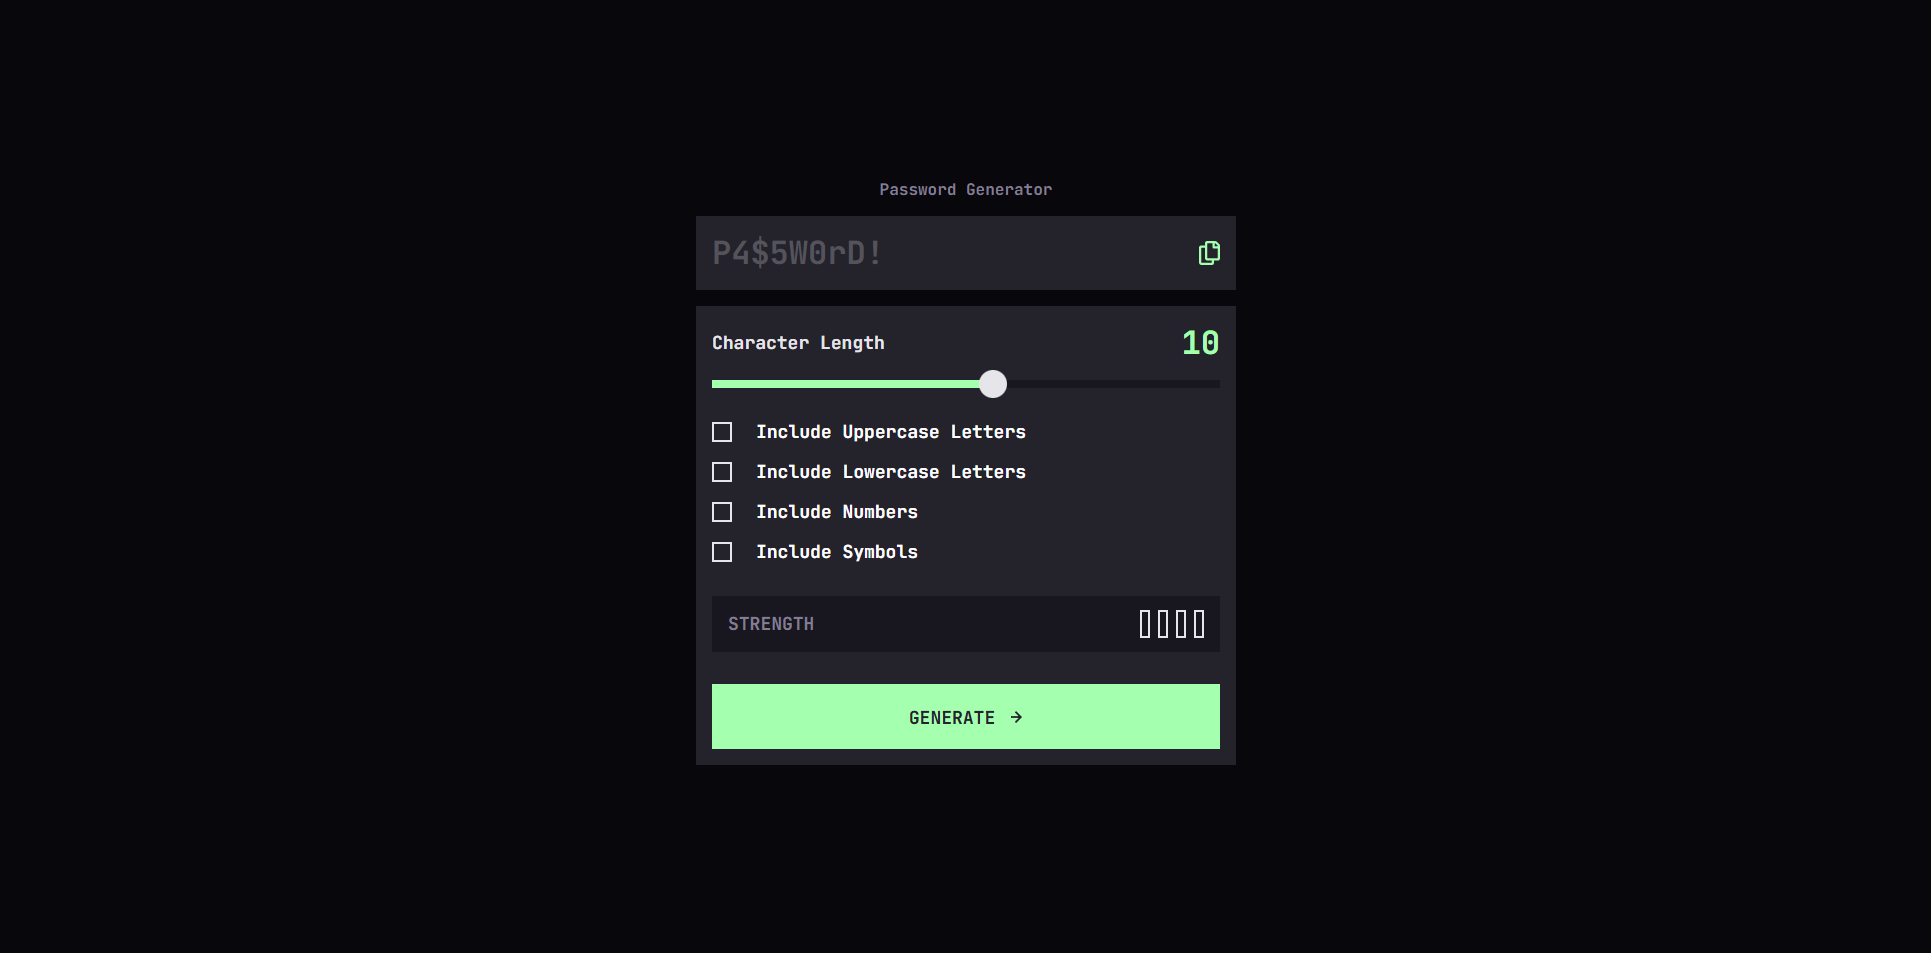
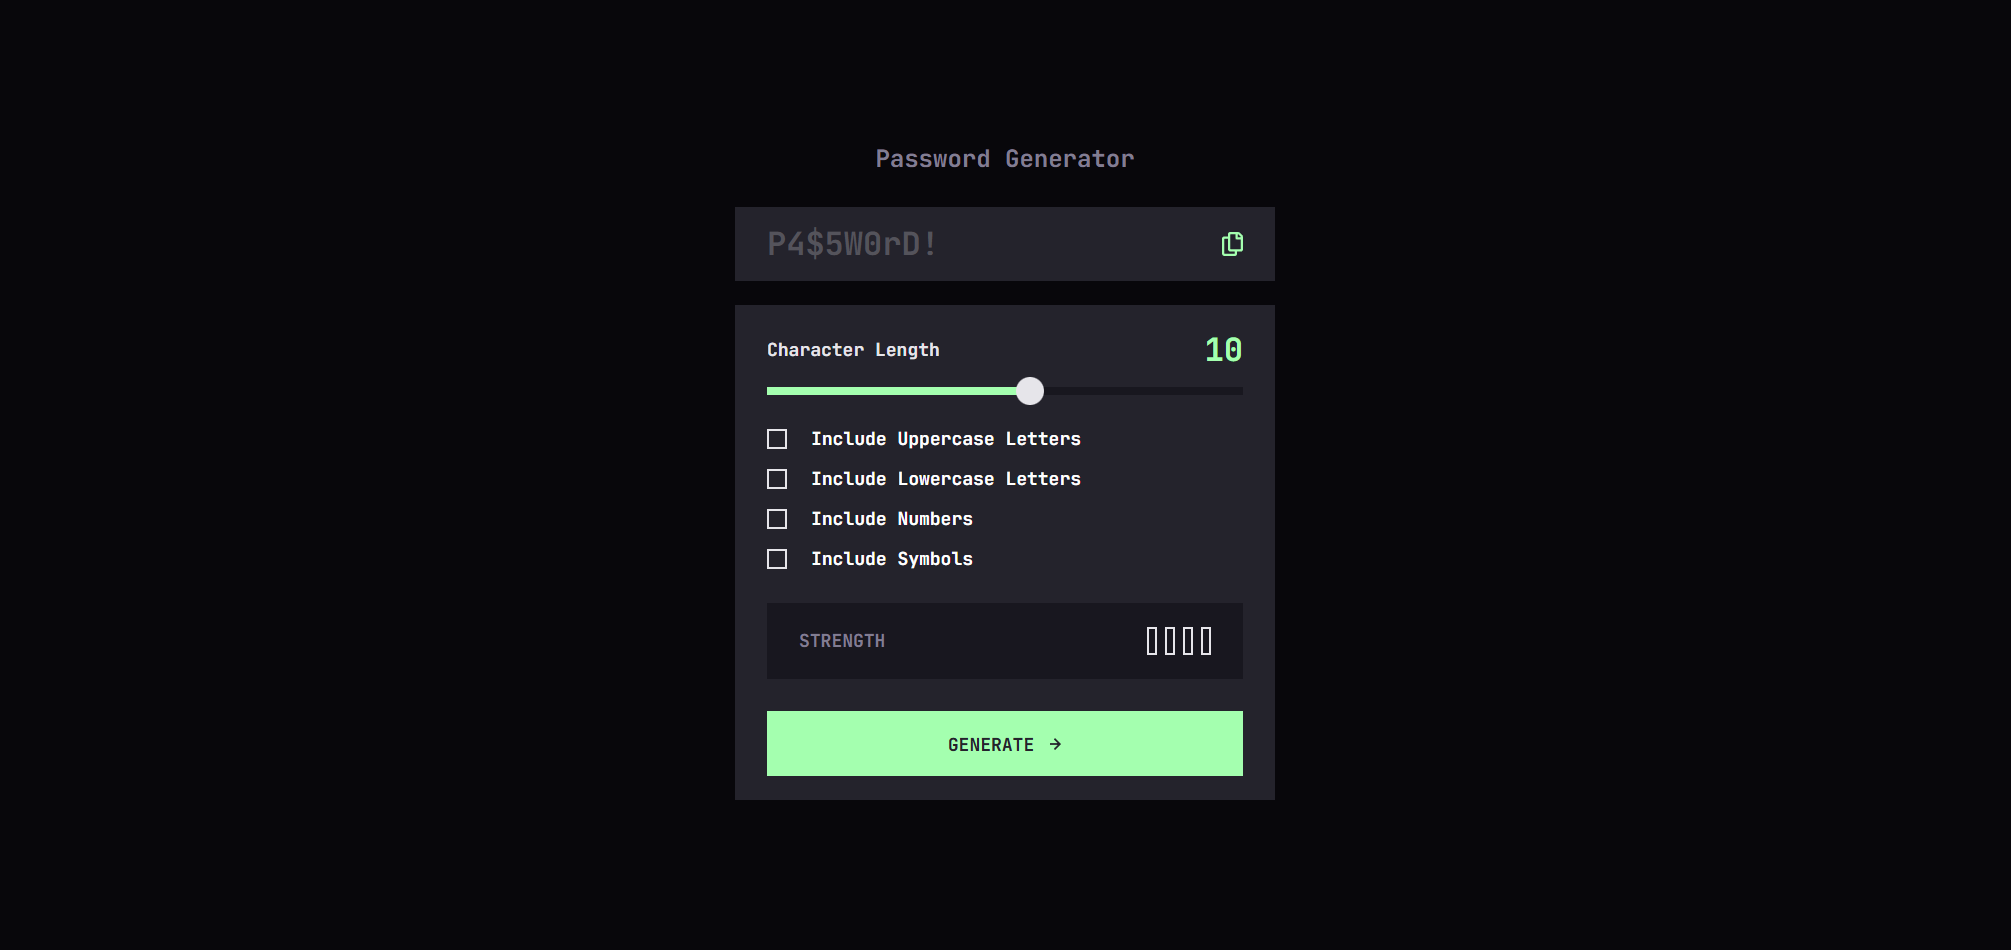
Update screenshot. Fix spacing on larger screen size.

Changed region(s): [[0.3418, 0.3358, 0.6525, 0.8547], [0.3418, 0.1526, 0.6525, 0.3053]]

diff --git a/styles/app.css b/styles/app.css
@@ -94,12 +94,27 @@ body {
 .PasswordGenBody__settingsContainer {
   display: grid;
   grid-template-rows: repeat(3, auto);
-
   gap: 32px;
 }
 
 @media (min-width: 600px) {
+  .PasswordGenContainer {
+    gap: 32px;
+  }
+
   .PasswordGenHeader__title {
     font: var(--fontPreset2);
+  }
+
+  .PasswordGenBody {
+    gap: 24px;
+  }
+
+  .PasswordGenBody__passwordDisplayContainer {
+    padding: 16px 32px;
+  }
+
+  .PasswordGenBody__settingsContainer {
+    padding: 24px 32px;
   }
 }

diff --git a/styles/strength.css b/styles/strength.css
@@ -115,6 +115,10 @@
 }
 
 @media (min-width: 600px) {
+  .Strength__content {
+    padding: 24px 32px;
+  }
+
   .Strength__text {
     font: var(--fontPreset3);
   }
